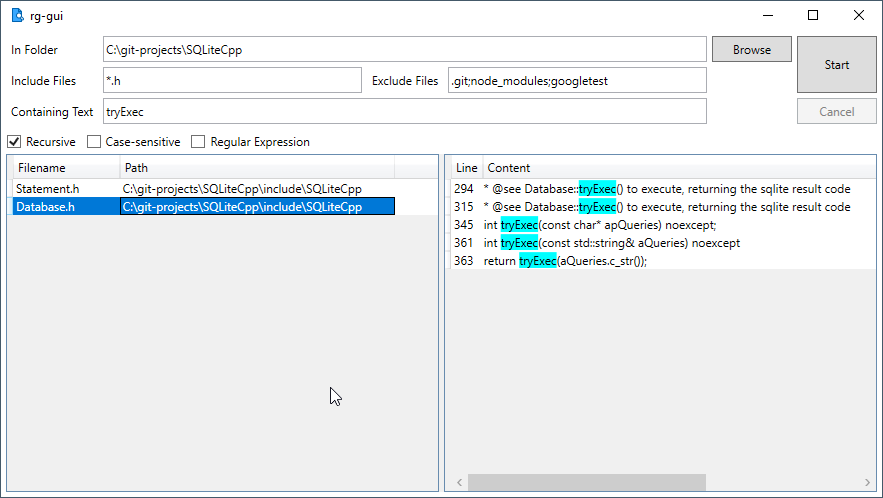
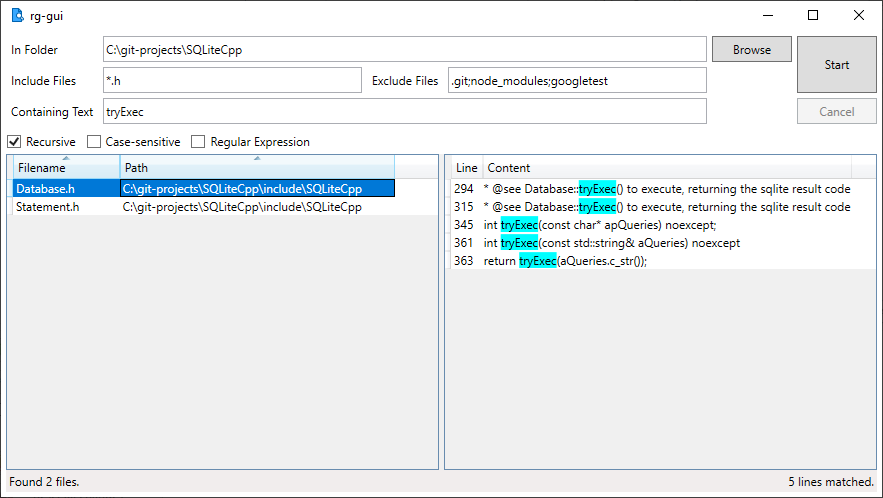
Add status bar with file/line matches
Remove TODOs comments.

diff --git a/rg-gui/MainWindow.xaml b/rg-gui/MainWindow.xaml
@@ -13,6 +13,7 @@
             <RowDefinition Height="Auto"/>
             <RowDefinition Height="Auto"/>
             <RowDefinition Height="*"/>
+            <RowDefinition Height="Auto"/>
         </Grid.RowDefinitions>
 
         <Grid Grid.Row="0" Margin="0,0,0,5">
@@ -80,5 +81,23 @@
                 </DataGrid.Columns>
             </DataGrid>
         </Grid>
+        <StatusBar Grid.Row="3">
+            <StatusBar.ItemsPanel>
+                <ItemsPanelTemplate>
+                    <Grid>
+                        <Grid.ColumnDefinitions>
+                            <ColumnDefinition Width="*" />
+                            <ColumnDefinition Width="Auto" />
+                        </Grid.ColumnDefinitions>
+                    </Grid>
+                </ItemsPanelTemplate>
+            </StatusBar.ItemsPanel>
+            <StatusBarItem>
+                <TextBlock x:Name="txtFileListStatus" TextAlignment="Left"/>
+            </StatusBarItem>
+            <StatusBarItem Grid.Column="1">
+                <TextBlock x:Name="txtResultLineStatus" TextAlignment="Right"/>
+            </StatusBarItem>
+        </StatusBar>
     </Grid>
 </Window>

diff --git a/rg-gui/MainWindow.xaml.cs b/rg-gui/MainWindow.xaml.cs
@@ -150,6 +150,7 @@ namespace rg_gui
                 if (!FileResultItems.Any(x => x.Path == result.path && x.Filename == result.filename))
                 {
                     FileResultItems.Add(new FileSearchResult(result.path, result.filename));
+                    txtFileListStatus.Text = $"Found {FileResultItems.Count} files.";
                 }
             });
         }
@@ -197,6 +198,8 @@ namespace rg_gui
                             }
                         }
                     }
+
+                    txtResultLineStatus.Text = $"{ResultLineItems.Count} lines matched.";
                 }
             }
         }

diff --git a/rg-gui/RipGrepWrapper.cs b/rg-gui/RipGrepWrapper.cs
@@ -1,8 +1,4 @@
-// TODO -- Add file/line result counts, display in UI
-// TODO -- Improve right-click support (only works if all files in the same folder.)
-// TODO -- Save splitter position.
-
-using CliWrap;
+using CliWrap;
 using CliWrap.EventStream;
 using System;
 using System.Collections.Concurrent;
